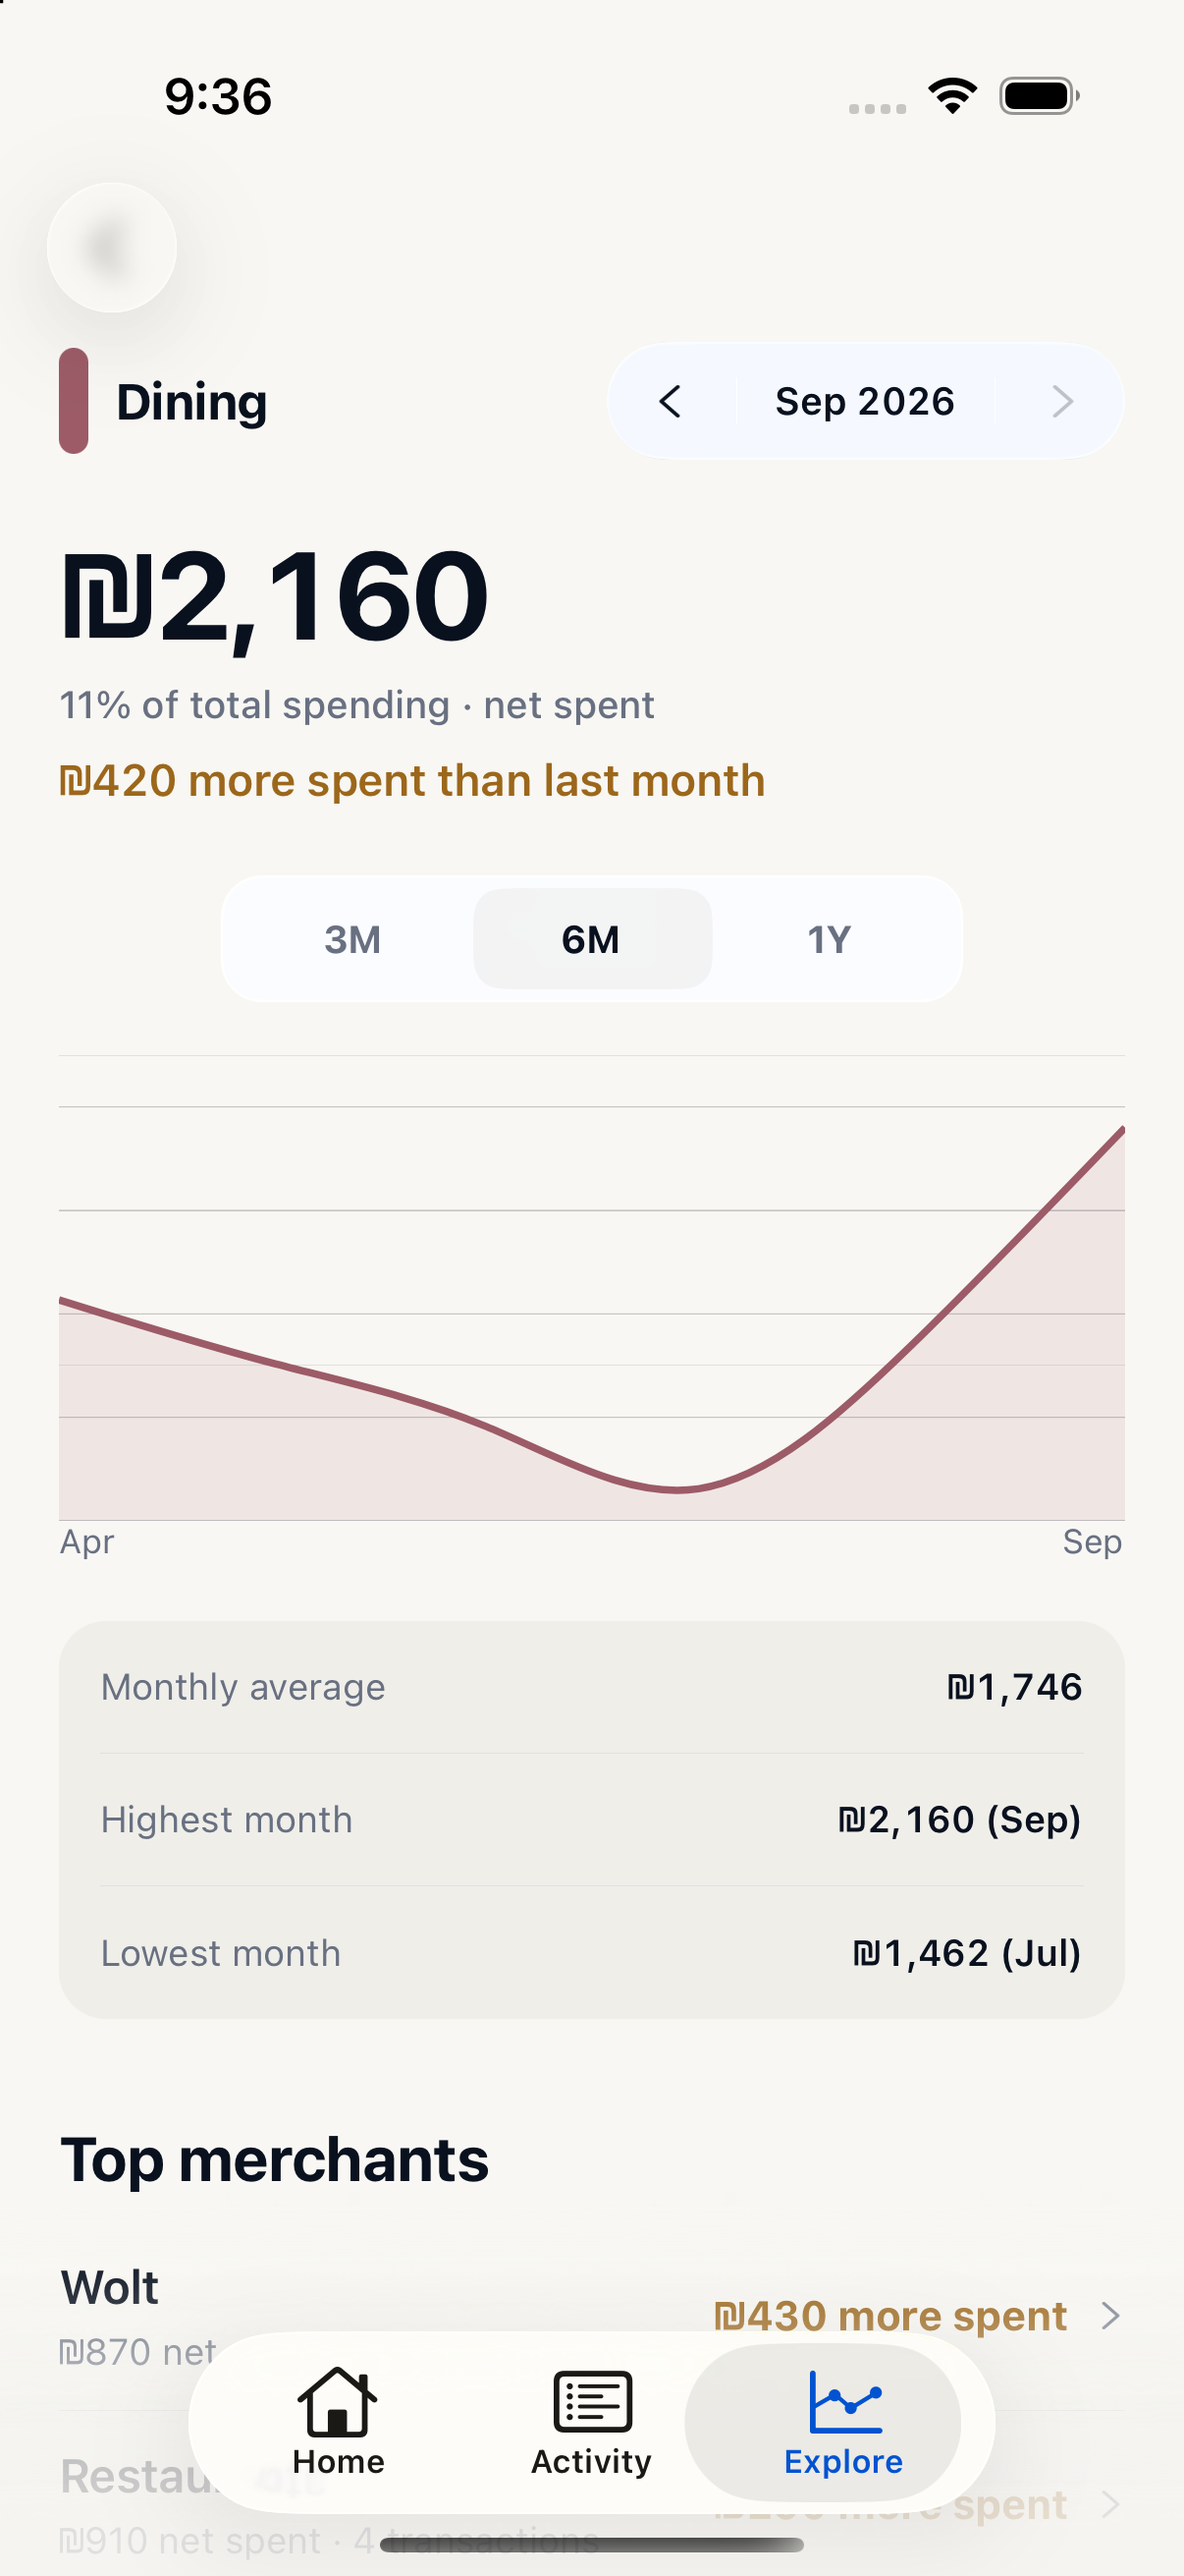
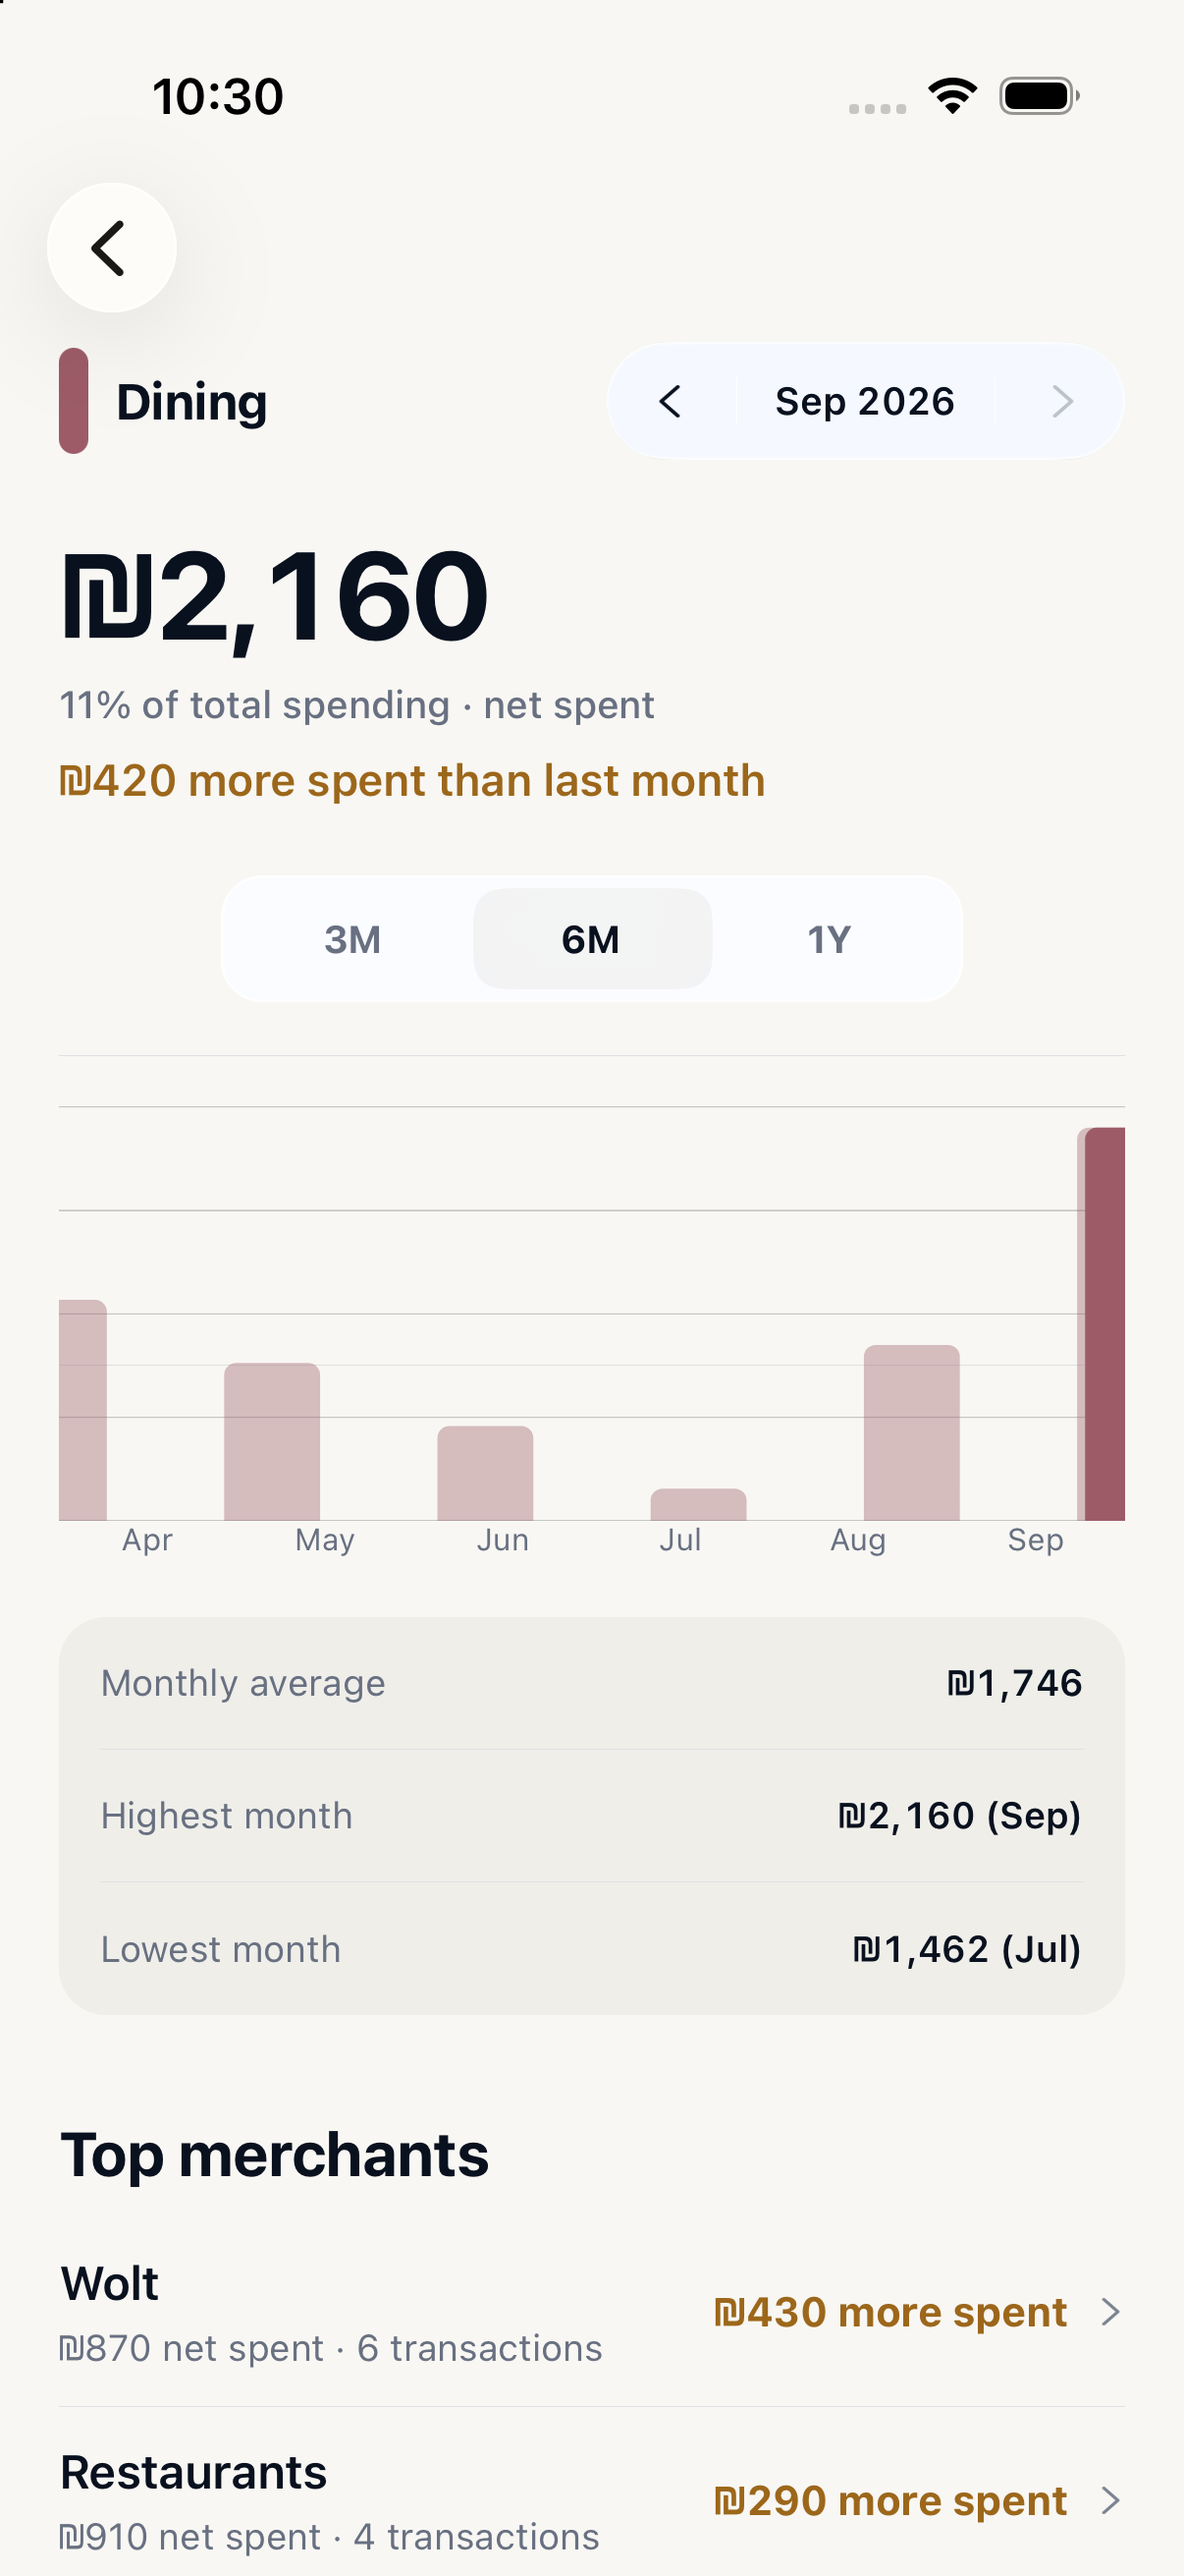
fix(mobile): restore category bar chart

diff --git a/mobile/app/(tabs)/explore/category/[name].tsx b/mobile/app/(tabs)/explore/category/[name].tsx
@@ -1,4 +1,4 @@
-import { Area, CartesianChart, Line } from 'victory-native';
+import { Bar, CartesianChart } from 'victory-native';
 import { router, Stack, useLocalSearchParams } from 'expo-router';
 import { SymbolView } from 'expo-symbols';
 import { useMemo, useState } from 'react';
@@ -178,28 +178,36 @@ function CategoryContent({
         >
           {({ points, chartBounds }) => (
             <>
-              <Area
+              <Bar
                 points={points.total}
-                y0={chartBounds.bottom}
+                chartBounds={chartBounds}
                 color={category.color}
-                curveType="natural"
-                opacity={0.1}
+                innerPadding={0.55}
+                opacity={0.38}
+                roundedCorners={{ topLeft: 4, topRight: 4 }}
               />
-              <Line
-                points={points.total}
+              <Bar
+                points={points.total.slice(-1)}
+                chartBounds={chartBounds}
+                barCount={history.length}
                 color={category.color}
-                curveType="natural"
-                strokeWidth={2.5}
+                innerPadding={0.55}
+                roundedCorners={{ topLeft: 4, topRight: 4 }}
               />
             </>
           )}
         </CartesianChart>
       </View>
       <View style={styles.chartLabels}>
-        <Text style={[styles.chartLabel, { color: colors.secondary }]}>
-          {historyMonths[0]?.label ?? snapshot.label}
-        </Text>
-        <Text style={[styles.chartLabel, { color: colors.secondary }]}>{snapshot.label}</Text>
+        {historyMonths.map((item) => (
+          <Text
+            key={item.month}
+            numberOfLines={1}
+            style={[styles.chartLabel, { color: colors.secondary }]}
+          >
+            {item.label}
+          </Text>
+        ))}
       </View>
 
       <View style={[styles.stats, { backgroundColor: colors.surfaceSoft }]}>
@@ -372,8 +380,8 @@ const styles = StyleSheet.create({
   chart: { height: 158, marginTop: 18 },
   chartGuides: { ...StyleSheet.absoluteFill, justifyContent: 'space-between' },
   chartGuide: { width: '100%', height: StyleSheet.hairlineWidth },
-  chartLabels: { flexDirection: 'row', justifyContent: 'space-between' },
-  chartLabel: { fontSize: 11.5 },
+  chartLabels: { flexDirection: 'row' },
+  chartLabel: { flex: 1, textAlign: 'center', fontSize: 10.5 },
   stats: { marginTop: 20, paddingHorizontal: 14, borderRadius: 16 },
   statRow: { minHeight: 45, flexDirection: 'row', alignItems: 'center', justifyContent: 'space-between', gap: 16 },
   statLabel: { fontSize: 12.5 },

diff --git a/mobile/design-qa.md b/mobile/design-qa.md
@@ -41,11 +41,17 @@ The final source-versus-implementation comparison and focused Categories compari
 
 ### Pass 5 — Explore hierarchy and interactive analytics refinement
 
-The supplied mockup and the updated Explore hub, Category, Monthly spending, and expanded Budget states were reviewed in one same-call image batch. Explore now has one dominant monthly summary and one grouped drill-down surface instead of an uneven card grid. Category follows the reference reading order while retaining Blue Ledger styling: identity and embedded month control, amount and share, comparison, compact range control, line/area trend, monthly average/high/low calculations, merchants, then transactions.
+The supplied mockup and the updated Explore hub, Category, Monthly spending, and expanded Budget states were reviewed in one same-call image batch. Explore now has one dominant monthly summary and one grouped drill-down surface instead of an uneven card grid. Category follows the reference reading order while retaining Blue Ledger styling: identity and embedded month control, amount and share, comparison, compact range control, monthly bar trend, monthly average/high/low calculations, merchants, then transactions.
 
 The first simulator render exposed gray bands behind both charts because guide rows were incorrectly allowed to flex. They were replaced with hairline guides and the screens were rebuilt. The final Monthly chart uses a calm 0–25K labeled scale, narrow translucent stacks, percentages, aligned values, and category drill-down affordances. A simulator interaction check selected April after September and confirmed the stack geometry remained unchanged; only selection emphasis and detail values changed. Budgets were also exercised in Simulator: tapping Monthly spending expanded its included debit transactions, and each row retained the existing transaction-detail route.
 
 The final light and dusk captures preserve contrast, tab clearance, native back navigation, Dynamic Type behavior, semantic status colors, and the compact glass selection language. No actionable P0, P1, or P2 visual defects remain.
+
+### Pass 6 — Category chart correction
+
+The Category detail reference and implementation were compared again after device feedback identified the trend visualization mismatch. The line/area chart was replaced with the reference's six-column monthly bar chart, with quiet historical bars, a fully emphasized selected month, and one aligned month label per bar. The average, highest, and lowest calculations remain directly beneath the chart as in the mockup.
+
+The corrected iPhone 17 Pro Simulator capture was inspected beside the supplied mockup at the same six-month state. Typography, spacing, semantic category color, range control, chart hierarchy, statistics, and merchant drill-down remain consistent with Blue Ledger. No actionable P0, P1, or P2 visual defects remain.
 
 ## Evidence
 
@@ -115,3 +121,5 @@ The final light and dusk captures preserve contrast, tab clearance, native back 
 - Explore refinement mobile tests: 17/17 passed, including the stable monthly category-stack regression.
 - Explore refinement native iOS Release build: passed on iPhone 17 Pro Simulator, iOS 26.5, with 0 errors.
 - Manual Simulator interaction checks: monthly bar selection stability passed; budget expansion and transaction drill-down rendering passed.
+- Category bar correction TypeScript and 17/17 mobile tests: passed.
+- Category bar correction native iOS Release build and Simulator visual comparison: passed.
